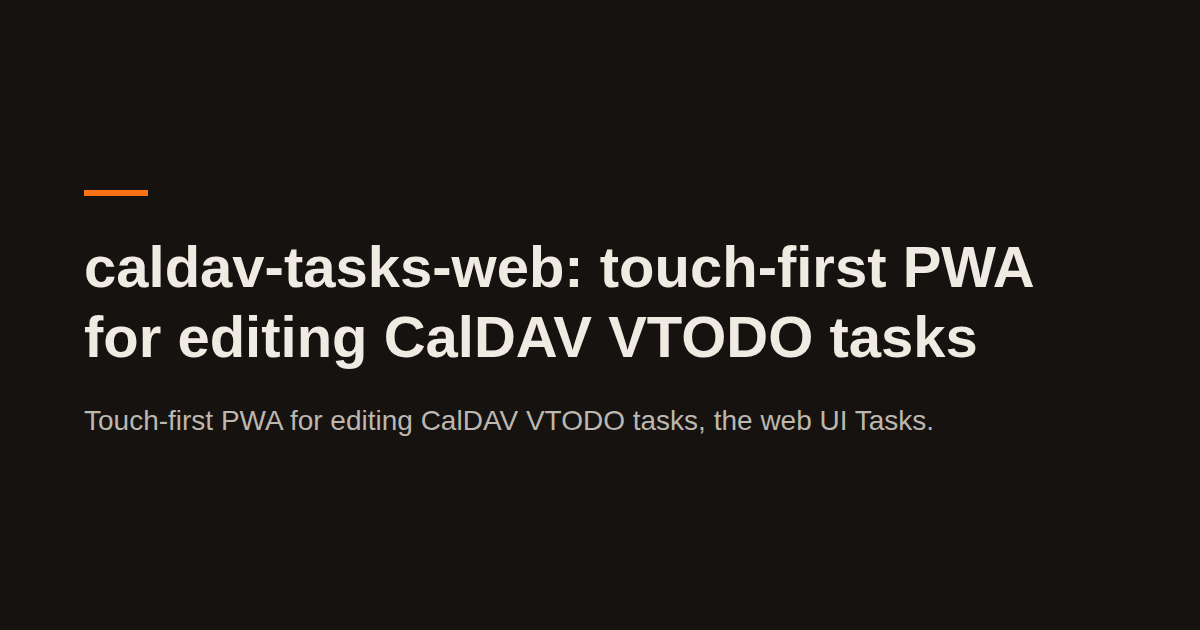
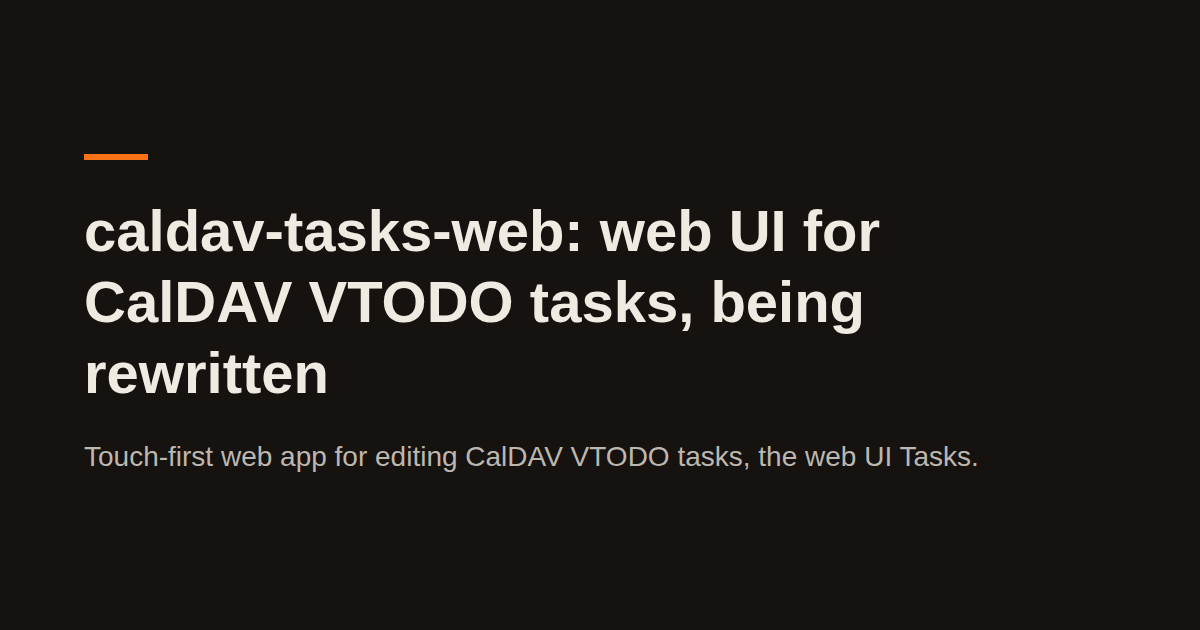
docs(tools): stop claiming caldav-tasks-web features it lacks (#411)
* docs(tools): stop claiming caldav-tasks-web features it lacks

The app does not work with Stalwart, can lose data when saving a task and
has no service worker; it is being rewritten. Show it as work in progress,
qualify the post and add a dated update note.

* docs(tools): finish removing caldav-tasks-web claims

Reword the tool job line and the architecture guide teaser, point the post's
help section at the rewrite, drop the unused cover and regenerate the OG image.

---------

Changed region(s): [[0.0617, 0.3016, 0.8633, 0.754], [0.0617, 0.2413, 0.1233, 0.2714]]

diff --git a/lib/tools.ts b/lib/tools.ts
@@ -75,7 +75,7 @@ export const toolGroups: ToolGroup[] = [
     id: "products",
     layout: "wide",
     title: "Products",
-    intro: "Products I am building. Both are work in progress.",
+    intro: "Products I am building. All are work in progress.",
   },
   {
     id: "archive",
@@ -581,24 +581,26 @@ export const tools: Tool[] = [
   {
     slug: "caldav-tasks-web",
     name: "caldav-tasks-web",
-    job: "touch-first PWA for editing CalDAV VTODO tasks",
+    job: "web UI for CalDAV VTODO tasks, being rewritten",
     summary:
-      "Touch-first PWA for editing CalDAV VTODO tasks, the web UI Tasks.org does not have. My Android tasks live in Tasks.org. Tasks.org syncs them to CalDAV. Every desktop client I tried either pulled its own backend or fought Tasks.org for ownership of the data — I needed a thin UI on top of the same VTODO files. Built it on Deno + Hono + Preact Signals: a CQRS layer over a CalDAV adapter (one PROPFIND/PROPPATCH/PUT/DELETE interface with a Radicale and a Stalwart implementation), AES-GCM at rest for server credentials, SQLite holding only user accounts and encryption keys — never for todos.",
+      "Touch-first web app for editing CalDAV VTODO tasks, the web UI Tasks.org does not have. My Android tasks live in Tasks.org, which syncs them to CalDAV; I wanted a web UI over the same task files. The current version is being rewritten from scratch, with a new design on spy4x/preact-components and the shared CalDAV libraries @spy4x/caldav and @spy4x/time/ical. Do not install the current version: it does not work with Stalwart, it can lose data when you save a task, and it has no service worker. The screenshots show the current version. There is no public demo.",
     kind: "app",
-    status: "paused",
-    group: "archive",
+    status: "wip",
+    group: "products",
     posts: ["self-hosted-caldav-web-ui-tasks-org"],
     deployable: true,
     appCategory: "ProductivityApplication",
     useIf: [
-      "You keep your tasks in Tasks.org and want a web UI over the same CalDAV VTODO files.",
+      "You want to follow the rewrite of a web UI for Tasks.org tasks on CalDAV.",
     ],
-    dontUseIf: ["You use Stalwart: support is currently broken."],
+    dontUseIf: [
+      "You want to use it today: the current version does not work with Stalwart and can lose data when saving a task.",
+    ],
     repo: "spy4x/caldav-tasks-web",
     runtime: "Deno, with Hono and Preact",
     programmingLanguage: "TypeScript",
     standing:
-      "Tested in production against Radicale; Nextcloud and Baikal are expected to work but untested; Stalwart support is currently broken (README has the details).",
+      "Being rewritten. The current version was used against Radicale, does not work with Stalwart, can lose data when saving a task, and has no service worker.",
     screenshots: [
       {
         src: "/img/tools/caldav-tasks-web/desktop-dashboard.webp",

diff --git a/routes/saas-architecture-guide.tsx b/routes/saas-architecture-guide.tsx
@@ -86,8 +86,8 @@ export default define.page(function SaasArchGuide() {
               </a>
               <p class="text-graphite text-sm mt-0.5">
                 Tasks.org syncs Android tasks to CalDAV cleanly. There is no web
-                UI for that data. The fix is a stateless PWA on top of the
-                CalDAV server you already run.
+                UI for that data. I built a web app for it; it is now being
+                rewritten.
               </p>
             </li>
             <li>

diff --git a/lib/tools.test.ts b/lib/tools.test.ts
@@ -97,7 +97,7 @@ Deno.test("every status is written down: in use, ready, beta, WIP, paused or arc
     "preact-components": "beta",
     "financy": "wip",
     "template": "wip",
-    "caldav-tasks-web": "paused",
+    "caldav-tasks-web": "wip",
     "toread-today": "archived",
     "seed": "archived",
   });

diff --git a/content/blog/self-hosted-caldav-web-ui-tasks-org.md b/content/blog/self-hosted-caldav-web-ui-tasks-org.md
@@ -1,8 +1,8 @@
 ---
 title: "The missing piece in a self-hosted CalDAV stack: a web UI for Tasks.org"
-description: "Tasks.org syncs Android tasks to CalDAV. There is no web UI for that data. The fix is a stateless PWA on top of the CalDAV server you already run — and the architecture that made it boring to ship."
+description: "Tasks.org syncs Android tasks to CalDAV. There is no web UI for that data. I built a web app on top of the CalDAV server you already run. It is now being rewritten."
 tldr:
-  - "Update: the app works well with Radicale, but Stalwart support is broken and there is no public demo right now."
+  - "Update, 8 October 2026: the app is being rewritten. The current version does not work with Stalwart and can lose data when saving a task. There is no demo."
   - "Tasks.org syncs Android tasks to CalDAV, but no web client existed for that data, so I built a stateless web app on top of the CalDAV server you already run."
   - "The CalDAV server stays the only source of truth: the app stores only accounts and encrypted credentials, so switching servers moves no todos."
   - "You don't need Nextcloud for it: the whole stack runs on one small box next to your CalDAV server."
@@ -12,10 +12,13 @@ topic: "self-hosting"
 relatedTool: "caldav-tasks-web"
 ---
 
-> **Update, September 2026:** The tool works well with Radicale. Stalwart
-> support is currently broken, to the point that the app is not usable with it,
-> and there is no public demo right now. Tracked in
-> [issue #10](https://github.com/spy4x/caldav-tasks-web/issues/10).
+> **Update, 8 October 2026:** The app is being rewritten from scratch, with a
+> new design and the shared CalDAV libraries `@spy4x/caldav` and
+> `@spy4x/time/ical`. The current version does not work with Stalwart, can lose
+> data when you save a task, and has no service worker. There is no public demo.
+> Do not install the current version. This post describes what I set out to
+> build in July 2026, not what the repo does today. Progress is in the
+> [repository](https://github.com/spy4x/caldav-tasks-web).
 
 Tasks.org syncs Android tasks to CalDAV cleanly. There is no web UI for that
 data. After a year of reaching for my phone to edit a todo at my desk, I built
@@ -37,36 +40,36 @@ Stalwart on purpose shouldn't need to deploy a Nextcloud instance to edit a todo
 on desktop. The fix had to assume the CalDAV server is the only piece already
 running.
 
-If you run Radicale — tested in production — that is your calendar server and
-this PWA is the missing task UI for it. Nextcloud and Baikal are
-CalDAV-compliant and expected to work too, though untested.
+The goal is a task UI for whichever CalDAV server you already run. I used the
+current version against Radicale. Stalwart does not work with it today.
+Nextcloud and Baikal are untested.
 
 ## Architecture: CalDAV as the only source of truth
 
-VTODO files live on the CalDAV server. The PWA is a stateless client. SQLite in
-the API container holds user accounts and AES-GCM-encrypted server credentials
-and nothing else. Switch CalDAV servers and no todos move.
+VTODO files live on the CalDAV server. The web app is a client. In the current
+version, SQLite in the API container holds user accounts and AES-GCM-encrypted
+server credentials and nothing else. Switch CalDAV servers and no todos move.
 
-That property mattered enough to me that I tested it. In July 2026 the instance
-I ran then migrated from Radicale to Stalwart with a config string change. Zero
-todos moved. That is the test the architecture had to pass.
+That property is the design goal. The current version did not meet it: it does
+not work with Stalwart, and it can lose data when you save a task. The rewrite
+exists to fix that.
 
-## CQRS in a UI app, and why it fits
+## CQRS in a UI app (the idea, not what runs today)
 
 The read/write split maps cleanly onto CalDAV's GET versus PROPPATCH/PUT/DELETE.
 Each side tests in isolation; the CalDAV adapter is the only piece that knows
-the protocol. Radicale and Stalwart both speak through the same
-PROPFIND/PROPPATCH/PUT/DELETE interface, so adding a third server is a new
-adapter class, not a chain of `if (serverType === ...)` blocks.
+the protocol. The idea was that Radicale and Stalwart would both speak through
+the same PROPFIND/PROPPATCH/PUT/DELETE interface, so adding a third server is a
+new adapter class, not a chain of `if (serverType === ...)` blocks. The rewrite
+does not use a CQRS layer.
 
 The CalDAV XML responses vary more than they should. Radicale uses the default
 namespace and emits lowercase `<d:response>`. Stalwart emits uppercase
 `<D:response>` and `<A:response>` for the caldav namespace. Substring-matching
 "calendar" in the response body matches the user's principal home on top of
 actual calendars. The parsers have to be case-insensitive, prefix-tolerant, and
-filter calendars by `<(prefix:)?calendar/>` inside `<resourcetype>`. The bug-fix
-branch for this is its own commit on the public repo — anyone hitting the same
-issue against Stalwart will find it.
+filter calendars by `<(prefix:)?calendar/>` inside `<resourcetype>`. Stalwart
+still fails in the current version.
 
 ## Preact Signals instead of hooks
 
@@ -80,12 +83,12 @@ app. For a heavily stateful list of items with frequent mutations and dense
 filtering, signals win on clarity and on raw update count. The codebase is
 roughly half the size it would be in React.
 
-## Single binary on a single box
+## One small box
 
-The deploy is a `deno task deploy` that rsyncs the project to a Hetzner box
-behind Traefik and runs `docker compose up -d --build`. Same Traefik that fronts
-the CalDAV server. Same SQLite file gets backed up by the same restic job that
-backs up the CalDAV data.
+The current version deploys with `deno task deploy`, which rsyncs the project to
+a Hetzner box behind Traefik and runs `docker compose up -d --build`. It is not
+a single binary. It sits behind the same Traefik as the CalDAV server, and its
+SQLite file can be backed up by the same restic job as the CalDAV data.
 
 There is no Kubernetes. There is no service mesh. The whole stack fits on a
 single $20/month box and stays there. A real engineer reading this knows that's
@@ -93,25 +96,22 @@ the right shape for a personal productivity tool.
 
 ## What it cost and what it doesn't do
 
-What it does: lists every CalDAV calendar with its colors, renders a touch-first
-task list with filters and tags and due dates, full VTODO editing, Kanban view,
-recurring tasks, multi-server per account. Credentials encrypted with AES-GCM at
-rest. PWA so it installs on a phone home screen.
+What the current version does: lists CalDAV calendars with their colors and
+renders a touch-first task list with filters, tags and due dates, plus a Kanban
+view. Credentials are encrypted with AES-GCM at rest.
 
-What it doesn't do: no sync engine (it is a client, not a server). Single user
-per install. No recurring-task editor yet. No native mobile wrapper. No team
-features.
+What it doesn't do: it does not work with Stalwart, it can lose data when you
+save a task, and it has no service worker, so it is a web app you open in a
+browser, not an installable offline app. It has no sync engine (it is a client,
+not a server), no recurring-task editor and no native mobile wrapper.
 
-I built it for myself. I am sharing it in case it is useful to someone else
-running the same stack.
+I built it for myself. The rewrite is for the same reason.
 
 ## What would help
 
-A second pair of eyes on the CalDAV adapter against Nextcloud Tasks and Baikal.
-They speak the standard but emit different propstat shapes for properties
-Radicale and Stalwart happily skip. UI feedback, especially on tablets — I have
-tested on phone and desktop but not on a 10-inch iPad. If you run Tasks.org on
-Android, this pairs with it directly — open an issue if anything breaks.
+Nothing to test yet. The rewrite is not ready, and I will not promise features
+or dates. If you want to follow it, watch the
+[repository](https://github.com/spy4x/caldav-tasks-web).
 
 ## Closing
 
@@ -121,5 +121,5 @@ self-hosted CalDAV stack was real, and fixing it didn't need to be
 enterprise-grade — it just needed to honour the contract: the server you trust,
 the format you control, the data you already have.
 
-If you already run Radicale and want a desktop UI for the same data your Android
-phone sees, try it. The deploy script in the README is five commands.
+If you want a desktop UI for the same data your Android phone sees, watch the
+repository for the rewrite. I would not install the current version.
